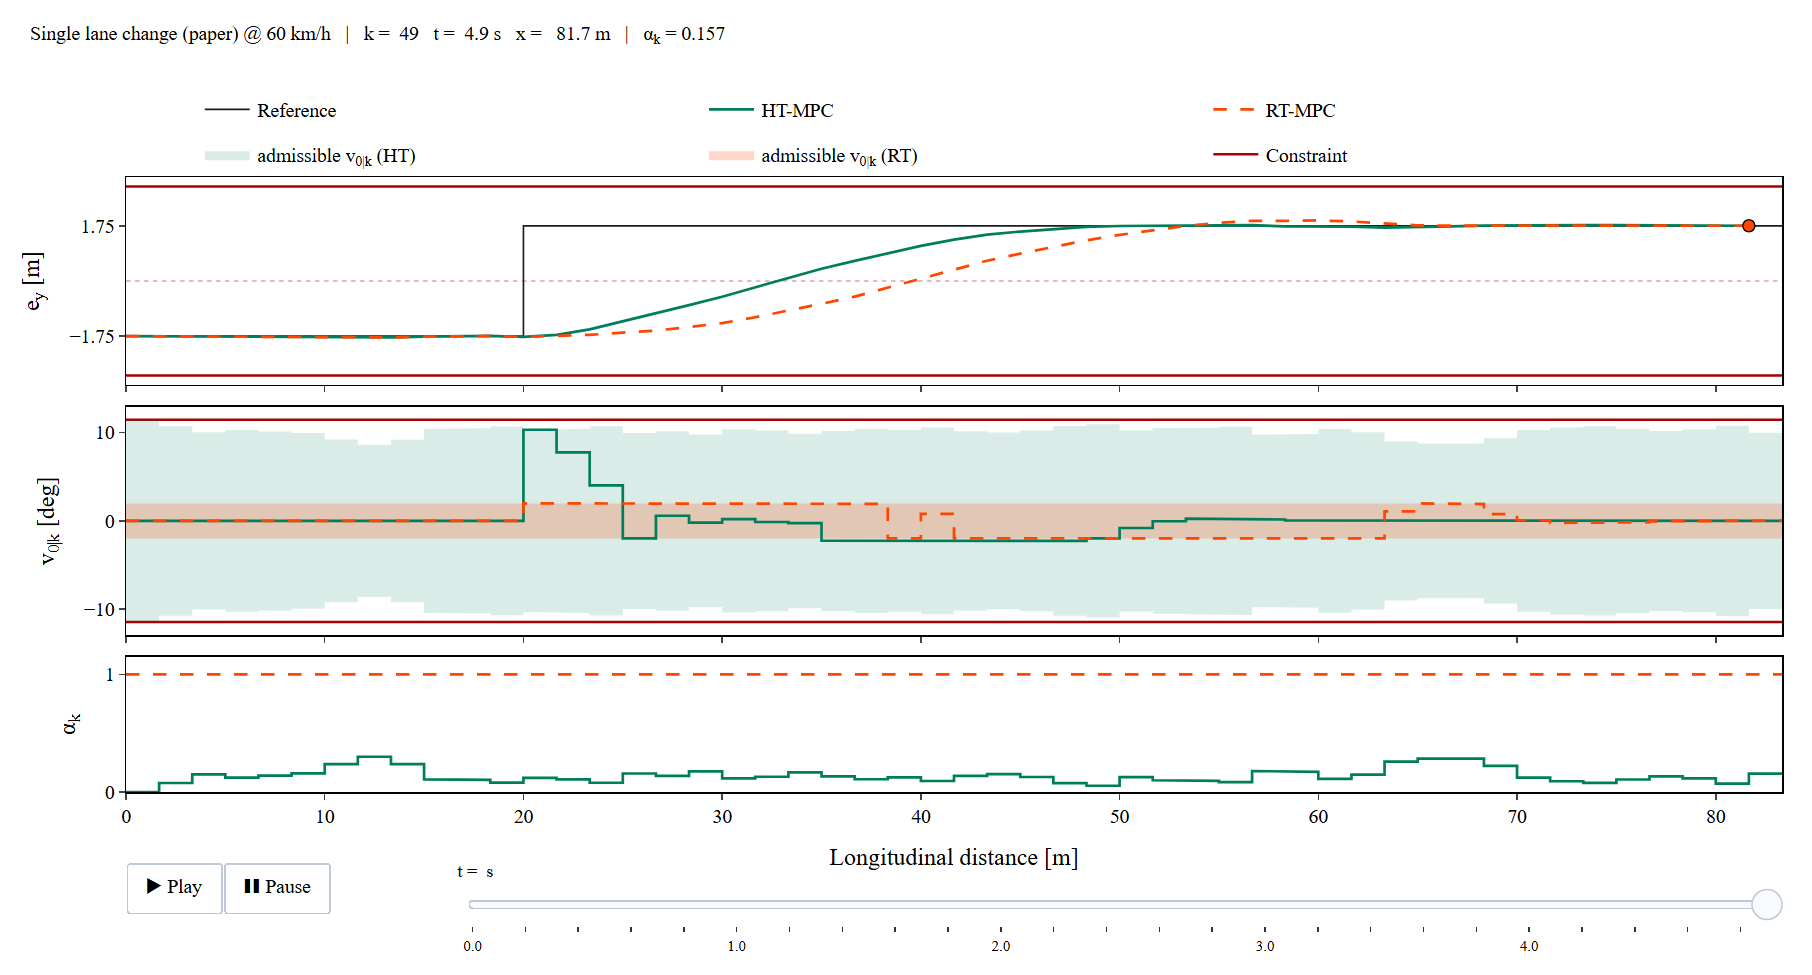
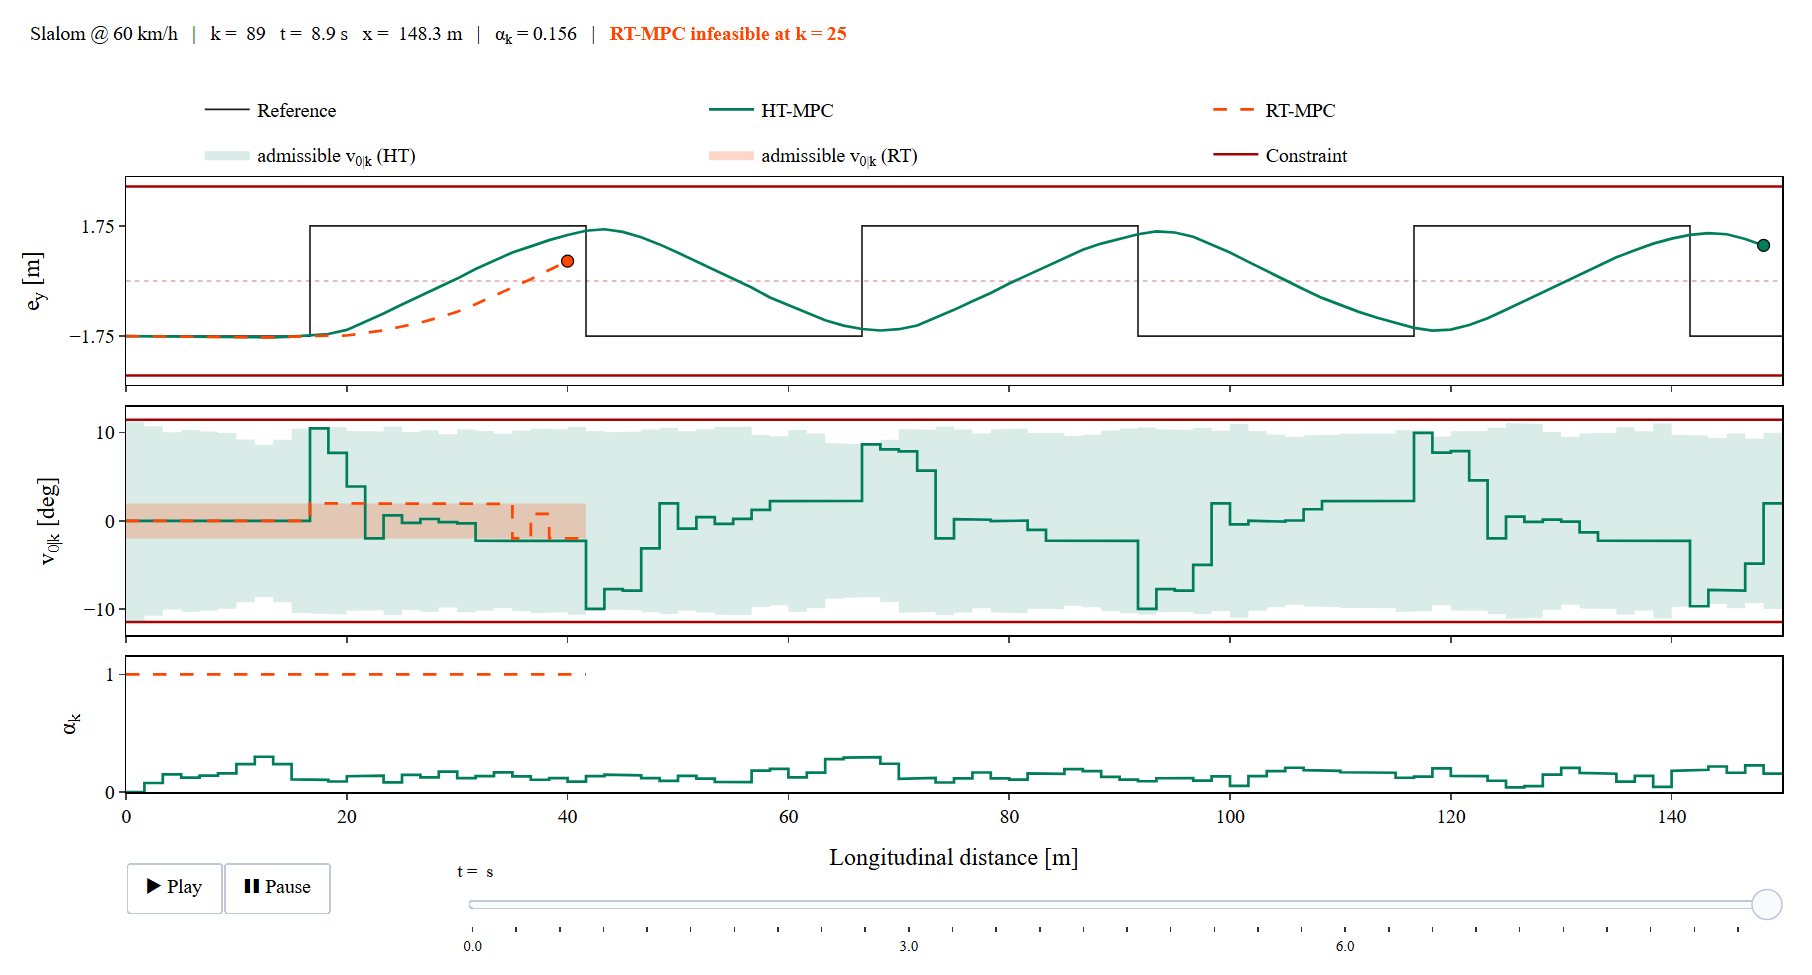
README: show the slalom, where RT-MPC becomes infeasible, as the app preview

diff --git a/README.md b/README.md
@@ -8,7 +8,10 @@ Milad Banitalebi Dehkordi, Manas Mejari and Dario Piga — *submitted*
 Pick a lane-change manoeuvre, set the speed and the two uncertainty bounds, and watch the
 paper's figure being drawn for both controllers. Nothing to install.
 
-[![The interactive app](fig_playground_preview.png)](https://homothetic-tube-mpc-m2tzxs7zpx8minf6q2znzt.streamlit.app/)
+[![The interactive app: slalom at the paper's bounds](fig_playground_preview.png)](https://homothetic-tube-mpc-m2tzxs7zpx8minf6q2znzt.streamlit.app/)
+
+*The slalom at the paper's bounds: RT-MPC's QP becomes infeasible at the second lane change
+($k = 25$), HT-MPC completes the manoeuvre.*
 
 **HT-MPC** (proposed) and **RT-MPC** (rigid tube) solve the *same* QP, with the same RPI
 ellipsoid $\Omega$, the same terminal cost and the same terminal set. The only difference is
